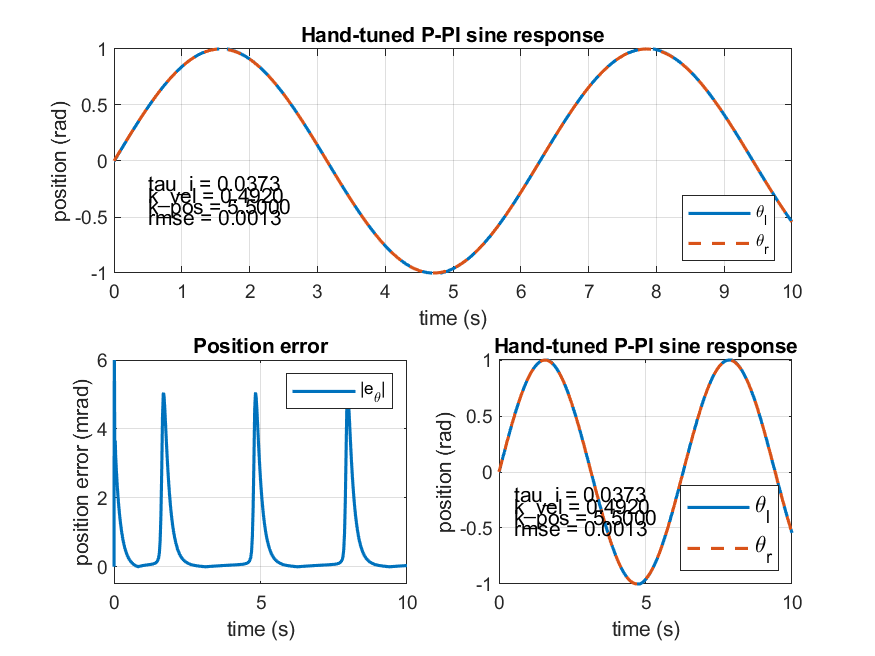
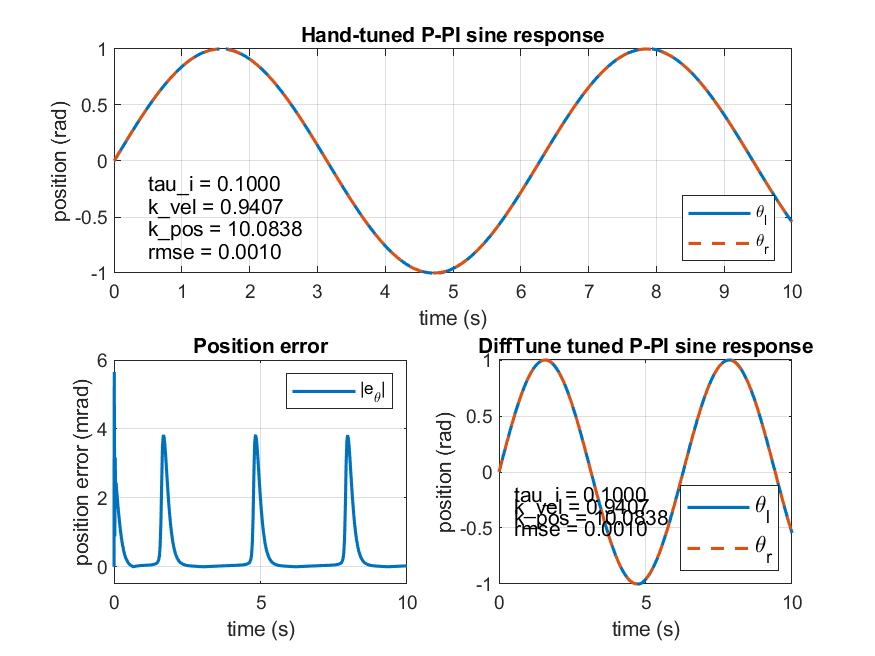
small changes

diff --git a/modelInit_1FT7042.m b/modelInit_1FT7042.m
@@ -66,17 +66,20 @@ xf = 1;
 %open("driveTrain_PID_controller.slx");
 
 %% P-PI-controller parameters
-tau_i = 0.0373;
-k_vel = 0.492;
-k_i = 1/tau_i;
-k_pos = 5.5;
+% tau_i = 0.0373;
+% k_vel = 0.492;
+% k_i = 1/tau_i;
+% k_pos = 5.5;
 
 % tau_i = 0.06;
 % k_pos = 9;
 % k_i = 1/tau_i;
 % k_vel = tau_i *k_i;
 
-
+% test
+tau_i = 1/1.0084;
+k_pos = 5.0008;
+k_vel = 9.3599;
 %% Simulink simulation - STSMC and P-STSMC hand-tuning
 driveTrain_sim = sim("driveTrain_PID_controller", 10);
 
@@ -136,7 +139,7 @@ text(0.5,-0.20,['tau_i = ' sprintf('%.4f', tau_i)]);
 text(0.5,-0.4,['k_vel = ' sprintf('%.4f', k_vel)]);
 text(0.5,-0.60,['k_pos = ' sprintf('%.4f', k_pos)]);
 text(0.5,-0.8,['rmse = ' sprintf('%.4f', rmse_theta)]);
-title('Hand-tuned P-PI sine response');
+title('DiffTune tuned P-PI sine response');
 
 subplot(2,2,3);
 plot(time, abs(e_theta)*10^3, 'LineWidth', 1.5);
@@ -156,7 +159,7 @@ xlabel('time (s)');
 ylabel('torque (N m)');
 title('Torque command');
 
-saveas(h1, 'Matlab plots\Hand-tuning of P-PI.png');
+saveas(h1, 'Matlab plots\DiffTune tuned of P-PI.png');
 %% Plots
 h1 = figure(1);
 
@@ -236,7 +239,7 @@ else
         text(0.5,-0.5,['rmse = ' sprintf('%.4f', rmse_theta)]);
         % title('Hand-tuned P-STSMC sine response');
         % saveas(h1, 'Matlab plots\sine response of P-STSMC hand-tuning.png');
-        title('Hand-tuned P-PI sine response')
+        title('DiffTune tuned P-PI sine response')
         saveas(h1, 'Matlab plots\Hand-tuned P-PI sine response.png');
     end
 end
